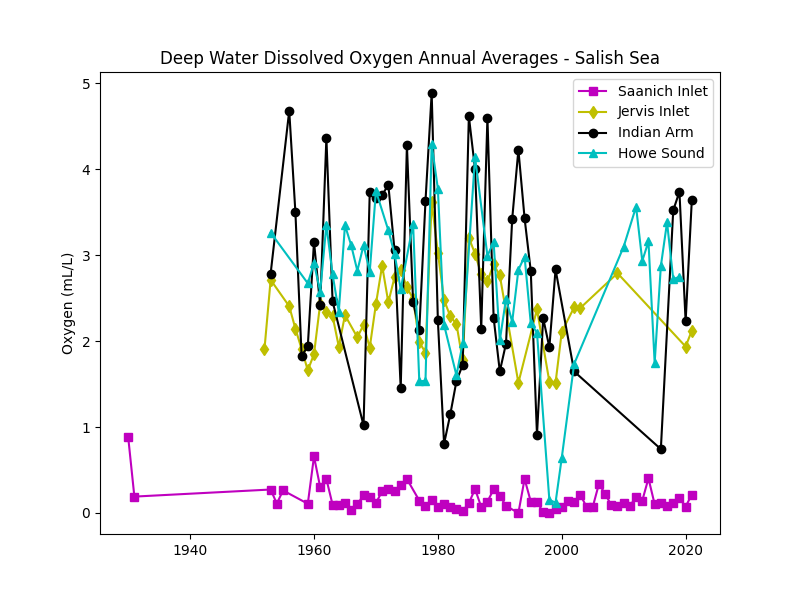
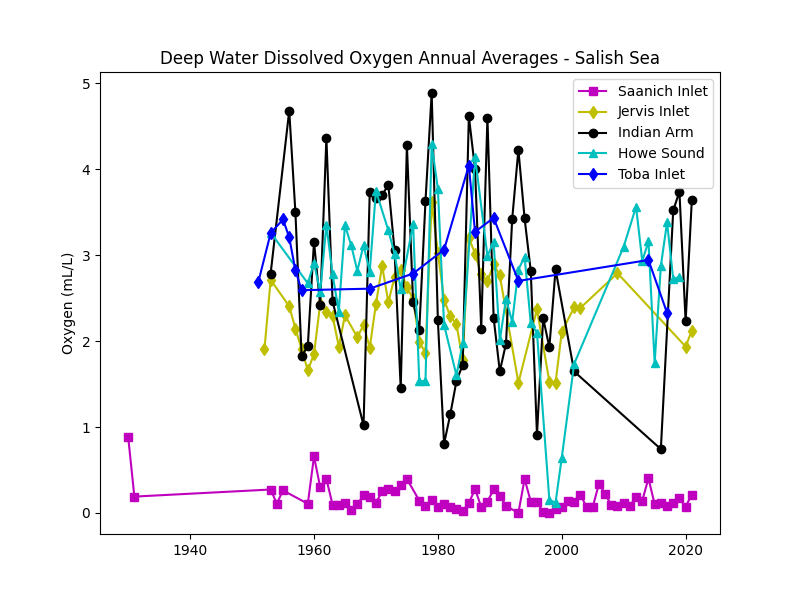
add Toba Inlet

diff --git a/get-maps.py b/get-maps.py
@@ -16,6 +16,7 @@ maps = [
     ([-129.3, 53.3, -128.5, 54.1], "500x700", "Douglas Channel"),
     ([-123.3, 49.2, -122.8, 49.5], "600x600", "Indian Arm"),
     ([-127.5, 52.3, -126.7, 53.0], "500x700", "Dean Channel"),
+    ([-125.0, 50.3, -124.1, 50.4], "500x400", "Toba Inlet"),
 ]
 
 mapbox_url = "https://api.mapbox.com/styles/v1/cyborgsphinx/{}/static/{}/{}"
